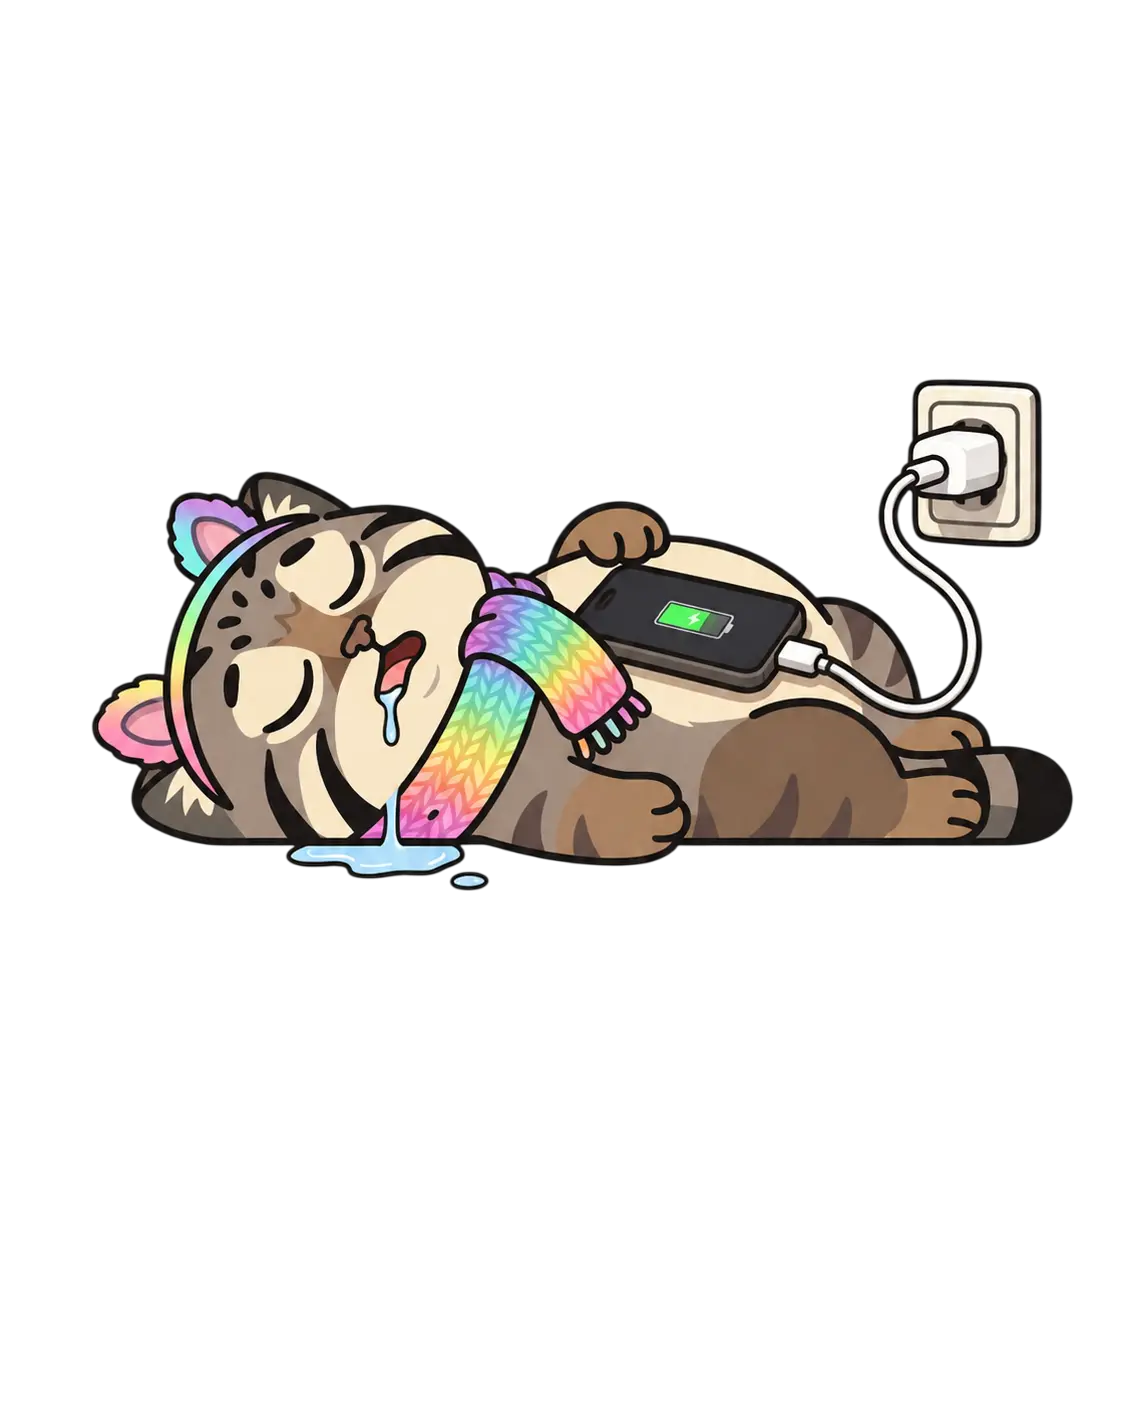
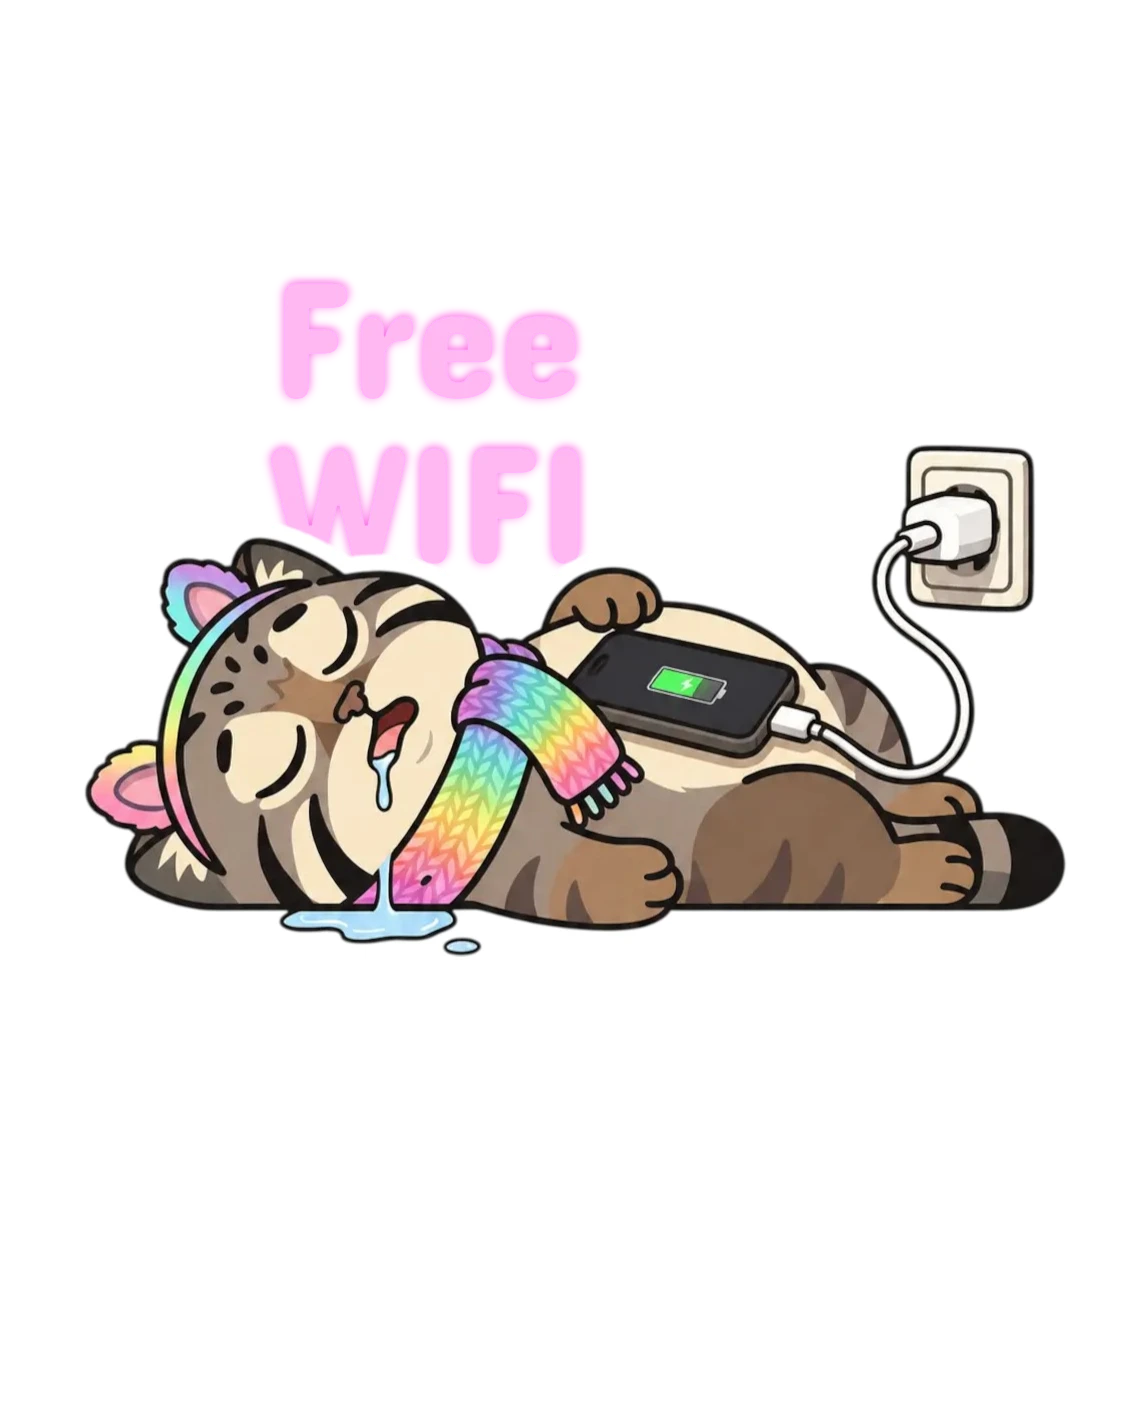
Finish feature card and mobile menu polish

Changed region(s): [[0.0623, 0.1842, 0.9662, 0.7059]]

diff --git a/components/Features.jsx b/components/Features.jsx
@@ -16,9 +16,9 @@ export default function Features({ items }) {
   };
 
   const cardShapes = {
-    1: 'max-w-[420px] min-h-[280px] sm:min-h-[320px] rounded-[1.2rem]',
-    2: 'aspect-square max-w-[340px] sm:max-w-[380px] min-h-0 rounded-full',
-    3: 'max-w-[420px] min-h-[280px] sm:min-h-[320px] rounded-[1.2rem]',
+    1: 'max-w-[520px] min-h-[320px] sm:max-w-[580px] sm:min-h-[360px] rounded-[1.2rem]',
+    2: 'aspect-square max-w-[420px] sm:max-w-[480px] min-h-0 rounded-full',
+    3: 'max-w-[440px] min-h-[300px] sm:min-h-[340px] rounded-[1.2rem]',
   };
 
   const pastelColors = ['text-rose-300', 'text-fuchsia-300', 'text-violet-300', 'text-sky-300', 'text-emerald-300', 'text-lime-300', 'text-amber-300', 'text-cyan-300'];
@@ -44,22 +44,47 @@ export default function Features({ items }) {
     ],
   };
 
+  const highlightTitleWords = (title) => {
+    const gradientClasses = {
+      'тусовки': 'from-violet-500 via-fuchsia-500 to-violet-400',
+      'тренде': 'from-sky-300 via-cyan-300 to-blue-400',
+      'Топовая': 'from-sky-300 via-cyan-300 to-blue-400',
+    };
+    const highlightRe = /(тусовки\.?|тренде\.?|Топовая\.?)/g;
+    const lines = title.split('. ').map((line) => line.trim()).filter(Boolean);
+
+    return lines.map((line, lineIndex) => {
+      const parts = line.split(highlightRe);
+      const needsDot = lineIndex < lines.length - 1 && !line.endsWith('.');
+
+      return (
+        <span key={lineIndex} className="block">
+          {parts.map((part, partIndex) => {
+            const normalized = part.replace(/\.$/, '');
+            const gradientClass = gradientClasses[normalized];
+            if (gradientClass) {
+              return (
+                <span
+                  key={partIndex}
+                  className={`relative inline-block whitespace-nowrap bg-gradient-to-r ${gradientClass} bg-clip-text text-transparent`}
+                >
+                  {part}
+                </span>
+              );
+            }
+            return <span key={partIndex}>{part}</span>;
+          })}
+          {needsDot ? '.' : ''}
+        </span>
+      );
+    });
+  };
+
   return (
     <section className="space-y-8 pt-8 px-4 sm:px-6 pb-36 sm:pb-40 lg:pb-48">
-      <div className="space-y-4 text-center mx-auto w-full max-w-4xl">
+      <div className="space-y-4 text-center mx-auto w-full max-w-5xl xl:max-w-6xl">
         <p
-          className="mx-auto inline-flex rounded-[1rem] px-5 py-1 text-center text-[0.9rem] font-black uppercase tracking-[0.2em] sm:text-[1.1rem]"
-          style={{
-            color: 'rgb(249, 168, 212)',
-            backgroundColor: 'white',
-            backgroundImage:
-              'linear-gradient(white, white), linear-gradient(90deg, rgb(249, 168, 212), rgb(251, 207, 234), rgb(249, 168, 212))',
-            backgroundOrigin: 'padding-box, border-box',
-            backgroundClip: 'padding-box, border-box',
-            border: '1px solid transparent',
-            boxShadow:
-              'inset 0 0 12px rgba(0,0,0,0.08), 0 0 0 6px rgba(255,255,255,0.24), 0 0 0 10px rgba(249,168,212,0.55), 0 0 18px rgba(251,207,234,0.35), 0 0 28px rgba(250,204,21,0.12)',
-          }}
+          className="mx-auto inline-flex rounded-none border-[12px] border-white bg-gradient-to-br from-sky-200 via-cyan-200 to-sky-100 px-5 py-1 text-center text-[0.9rem] font-black uppercase tracking-[0.2em] text-primary shadow-[6px_6px_0_rgba(0,0,0,0.6)] sm:text-[1.1rem] -rotate-[6deg]"
         >
           НАШ ВАЙБ
         </p>
@@ -77,7 +102,8 @@ export default function Features({ items }) {
           .
         </h2>
         <p className="mx-auto max-w-2xl text-sm text-secondary sm:text-base">
-          Тут есть все, что нужно для школы, учебы и твоего стиля.
+          Тут есть все, что нужно
+          <span className="block sm:inline"> для школы, учебы и твоего стиля.</span>
         </p>
       </div>
 
@@ -86,7 +112,7 @@ export default function Features({ items }) {
           {items.map((item) => (
             <article
               key={item.id}
-              className={`relative mx-auto overflow-hidden border-[12px] border-white ${cardShapes[item.id] ?? 'max-w-[420px] min-h-[280px] sm:min-h-[320px] rounded-[1.2rem]'} ${cardBackgrounds[item.id] ?? 'bg-slate-100'} ${cardTransforms[item.id] ?? ''} transform-gpu shadow-[0_14px_10px_-8px_rgba(0,0,0,0.72)] transition duration-300 ease-out hover:-translate-y-1 hover:rotate-0`}
+              className={`relative mx-auto overflow-hidden border-[12px] border-white ${cardShapes[item.id] ?? 'max-w-[420px] min-h-[280px] sm:min-h-[320px] rounded-[1.2rem]'} ${cardBackgrounds[item.id] ?? 'bg-slate-100'} ${cardTransforms[item.id] ?? ''} transform-gpu shadow-[10px_10px_0_rgba(0,0,0,0.78)] transition duration-300 ease-out hover:-translate-y-1 hover:rotate-0`}
             >
               <div className="pointer-events-none absolute inset-0 z-0 overflow-hidden">
                 {(cardDecorations[item.id] ?? []).map((dec, index) => {
@@ -106,14 +132,19 @@ export default function Features({ items }) {
                 })}
               </div>
               <div className="relative z-10 flex h-full flex-col items-center justify-center px-6 py-8 text-center">
-                <h3 className="text-[clamp(1.4rem,4vw,2.2rem)] font-nunito font-semibold text-primary tracking-[-0.03em]">
-                  {item.title.split('. ').map((part, index, array) => (
+                <h3 className="text-[clamp(1.6rem,4vw,2.4rem)] font-nunito font-semibold text-primary tracking-[-0.03em]">
+                {highlightTitleWords(item.title).map((part, index) =>
+                  typeof part === 'string' ? (
                     <span key={index} className="block">
-                      {part.trim()}
-                      {index < array.length - 1 ? '.' : ''}
+                      {part}
                     </span>
-                  ))}
-                </h3>
+                  ) : (
+                    <span key={index} className="block">
+                      {part}
+                    </span>
+                  )
+                )}
+              </h3>
                 <p className="mt-4 text-[clamp(0.95rem,2.4vw,1rem)] text-secondary leading-7">
                   {item.description}
                 </p>

diff --git a/components/Hero.jsx b/components/Hero.jsx
@@ -107,17 +107,17 @@ export default function Hero({ data }) {
                 />
               </div>
               <div className="relative flex flex-col gap-3 z-10">
-                <button className="hero-button-primary w-full rounded-xl bg-[#A78BFA] px-4 py-3 text-base font-semibold text-white transition-colors hover:bg-[#9774f0]">
+                <a href="#products" className="hero-button-primary w-full rounded-xl bg-[#A78BFA] px-4 py-3 text-base font-semibold text-white transition-colors hover:bg-[#9774f0]">
                   Смотреть хиты
-                </button>
-                <button className="catalog-button w-full rounded-xl border border-gray-300 bg-white px-4 py-3 text-base font-semibold text-primary">
+                </a>
+                <a href="#categories" className="catalog-button w-full rounded-xl border border-gray-300 bg-white px-4 py-3 text-base font-semibold text-primary">
                   <span className="mr-2 inline-flex h-5 w-5 items-center justify-center rounded-full bg-slate-100 text-base">
                     <svg viewBox="0 0 24 24" fill="none" stroke="currentColor" strokeWidth="2" strokeLinecap="round" strokeLinejoin="round" className="h-4 w-4">
                       <path d="M20.8 4.6a5.5 5.5 0 0 0-7.8 0L12 5.6l-1-1a5.5 5.5 0 1 0-7.8 7.8l8.8 8.8 8.8-8.8a5.5 5.5 0 0 0 0-7.8Z" />
                     </svg>
                   </span>
                   Каталог
-                </button>
+                </a>
               </div>
             </div>
             <div className="mt-5 flex items-center justify-center gap-2 text-sm font-semibold text-slate-700">

diff --git a/components/Header.jsx b/components/Header.jsx
@@ -59,7 +59,7 @@ export default function Header() {
               type="button"
               aria-label="Закрыть меню"
               onClick={() => setMenuOpen(false)}
-              className="absolute right-5 top-5 inline-flex h-11 w-11 items-center justify-center rounded-[1.2rem] border-[12px] border-white bg-[#A78BFA] text-xl text-white shadow-[0_14px_10px_-8px_rgba(0,0,0,0.72)] transition duration-300 ease-out hover:bg-[#9774f0]"
+              className="absolute right-5 top-5 inline-flex h-11 w-11 items-center justify-center rounded-none border-[12px] border-white bg-[#A78BFA] text-xl text-white shadow-[0_14px_10px_-8px_rgba(0,0,0,0.72)] transition duration-300 ease-out hover:bg-[#9774f0]"
             >
               ✕
             </button>
@@ -75,7 +75,7 @@ export default function Header() {
               <a
                 href="#categories"
                 onClick={() => setMenuOpen(false)}
-                className="block rounded-[1.2rem] border-[12px] border-white bg-gradient-to-br from-violet-200 via-fuchsia-200 to-violet-100 px-6 py-5 text-lg font-semibold text-primary shadow-[0_10px_0_rgba(0,0,0,0.78)] transform-gpu transition duration-300 ease-out hover:-translate-y-1 hover:rotate-0 -rotate-[2deg]"
+                className="block rounded-none border-[12px] border-white bg-gradient-to-br from-violet-200 via-fuchsia-200 to-violet-100 px-6 py-5 text-lg font-semibold text-primary shadow-[0_10px_0_rgba(0,0,0,0.78)] transform-gpu transition duration-300 ease-out hover:-translate-y-1 hover:rotate-0 -rotate-[2deg]"
               >
                 Категории
               </a>
